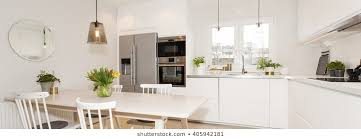
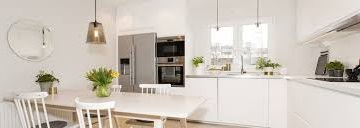
added a few things

diff --git a/about.html b/about.html
@@ -22,16 +22,15 @@
 
     <link href="https://fonts.googleapis.com/css?family=Playfair+Display&display=swap" rel="stylesheet">
     <link href="https://fonts.googleapis.com/css?family=Montserrat|Playfair+Display&display=swap" rel="stylesheet">
-    <link href="https://cdnjs.cloudflare.com/ajax/libs/jquery.caroufredsel/6.1.0/jquery.carouFredSel.packed.js">
 
+<meta name="viewport" content="width=device-width, initial-scale=1">
 
+<link rel="stylesheet" href="https://cdnjs.cloudflare.com/ajax/libs/animate.css/3.7.2/animate.min.css">
 
 </head>
-
-
 <body>
-	
-<nav class="navbar navbar-expand-lg navbar-light bg-white">
+
+	<nav class="navbar navbar-expand-lg navbar-light bg-white">
   <a class="navbar-brand" href="home.html"></a>
   <button class="navbar-toggler" type="button" data-toggle="collapse" data-target="#navbarTogglerDemo02" aria-controls="navbarTogglerDemo02" aria-expanded="false" aria-label="Toggle navigation">
     <span class="navbar-toggler-icon"></span>
@@ -56,26 +55,27 @@
 </nav>
 
 
-<header><img src="pictures/img-07.jpg" width="100%" /></header><br/>
+<header><img src="pictures/img-06.jpg" width="100%" /></header><br/>
 <div class="logo"><img class="logo"src="pictures/logo2.jpg" width="40%" />	</div><br/><br/>
 
-
-
-
-
-
-
-<div class="row">
-  <div class="col-sm-7"><h2>Welcome!</h2>
-
-    	<p>hdchjcdhwcdcgwkdc ipsum dolor sit amet, consectetur adipisicing elit, sed do eiusmod
+<h3 class="about">About us </h3><br/>
+<div class="container">
+<div class="col align-self-center" id="about-us">
+    <p class="about-">ipsum dolor sit amet, consectetur adipisicing elit, sed do eiusmod
 tempor incididunt ut labore et dolore magna aliqua. Ut enim ad minim veniam,
 quis nostrud exercitation ullamco laboris nisi ut aliquip ex ea commodo
 consequat. Duis aute irure dolor in reprehenderit in voluptate velit esse
 cillum dolore eu fugiat nulla pariatur. Excepteur sint occaecat cupidatat non
 proident, sunt in culpa qui officia deserunt mollit anim id est laborum.</p>
 
-<p>hdchjcdhwcdcgwkdc ipsum dolor sit amet, consectetur adipisicing elit, sed do eiusmod
+<p class="about-">ipsum dolor sit amet, consectetur adipisicing elit, sed do eiusmod
+tempor incididunt ut labore et dolore magna aliqua. Ut enim ad minim veniam,
+quis nostrud exercitation ullamco laboris nisi ut aliquip ex ea commodo
+consequat. Duis aute irure dolor in reprehenderit in voluptate velit esse
+cillum dolore eu fugiat nulla pariatur. Excepteur sint occaecat cupidatat non
+proident, sunt in culpa qui officia deserunt mollit anim id est laborum.</p>
+
+<p class="about-">ipsum dolor sit amet, consectetur adipisicing elit, sed do eiusmod
 tempor incididunt ut labore et dolore magna aliqua. Ut enim ad minim veniam,
 quis nostrud exercitation ullamco laboris nisi ut aliquip ex ea commodo
 consequat. Duis aute irure dolor in reprehenderit in voluptate velit esse
@@ -83,54 +83,29 @@ cillum dolore eu fugiat nulla pariatur. Excepteur sint occaecat cupidatat non
 proident, sunt in culpa qui officia deserunt mollit anim id est laborum.</p>
 
 
+    </div>
 </div>
 
-  <div class="col-sm-4"> <img src="pictures/img-05.jpg" width="100%" height="100%" class="img-thumbnail"/><br/><br/>
-  <button class="btn"> view our gallery</button></div>
-  
-
-</div><br/><br/><br/>
-
-
-
-
-<div class="we-do">
-<h3>What we do ?</h3><br/>
-<div class="list-group">
-  <a href="#" class="list-group-item list-group-item-action">Designer Kitchens</a>
-  <a href="#" class="list-group-item list-group-item-action">Designer Bathrooms</a>
-  <a href="#" class="list-group-item list-group-item-action">Built in cupbords</a>
-  <a href="#" class="list-group-item list-group-item-action">And further building services</a>
- </div>
-</div>
 <br/><br/>
 
-
-
-
-
-
-<div class="projects">
-<h3> Our latest projects </h3>
-
-<div class="container">
-  <div class="row">
-    <div class="col-sm">
-     <img src="pictures/img-02.jpg" class="img-thumbnail"/>
-    </div>
-    <div class="col-sm">
-     <img src="pictures/img-03.jpg" class="img-thumbnail"/>
-    </div>
-    <div class="col-sm">
-     <img src="pictures/img-04.jpg" class="img-thumbnail"/>
-    </div>
+<div class="slideshow-container">
+  <div class="mySlides1">
+    <img src="pictures/men.jpg" style="width:100%">
   </div>
+
+  <div class="mySlides1">
+    <img src="pictures/men2.jpg" style="width:100%">
+  </div>
+
+  <div class="mySlides1">
+    <img src="pictures/men3.jpg" style="width:100%">
+  </div>
+
+  <a class="prev" onclick="plusSlides(-1, 0)">&#10094;</a>
+  <a class="next" onclick="plusSlides(1, 0)">&#10095;</a>
 </div>
-</div>
 
-
-
-
+<br/><br/>
 
 
 <hr>
@@ -150,9 +125,10 @@ Cape Town, Western Cape</p><p> 7785</p><p>South Africa</p></div>
 </div>
 <hr>
 
-
 <footer>
 	 <p>2020 Design & Development by Cassidy Theunissen</p><br/>
 </footer>
+<script type="text/javascript" src="more.js"></script>
+
 </body>
 </html>

diff --git a/contact.html b/contact.html
@@ -43,7 +43,7 @@
         <a class="nav-link" href="about.html">About Us</a>
       </li>
       <li class="nav-item">
-        <a class="nav-link" href="general.html">Services</a>
+        <a class="nav-link" href="services.html">Services</a>
       </li>
       <li class="nav-item">
         <a class="nav-link" href="contact.html">Contact Us </a>
@@ -63,36 +63,26 @@
 
 
 
-<div class="row2">
-  <div class="col-sm-5"><h4>Trading hours</h4>
-  	<br/><p>Mon-Thur: 9:00am - 5pm | Fri: 9:00am - 3pm </p><p>Closed weekend & public holidays</p>
+<hr>
+<div class="container">
+  <div class="row vdivide">
+    <div class="col-sm-4 text-center"><h4>Physical Address</h4><br/><p> Corner Main and HaRN Avenue</p><p>
+Cape Town, Western Cape</p><p> 7785</p><p>South Africa</p></div>
+    <div class="col-sm-4 text-center"><h4>General Information</h4><br/><p>Nouveau Kitchens<p/><p>Tel: 021 371 2447</p>E-mail: HighSec@gmail.com</div>
+    <div class="col-sm-4 text-center"><h4>Find Us On</h4>
+    <div class="icons"><br/>
 
+              <a href="#" target="_blank"><i class="fa fa-facebook fa-3x" id="icon"></i></a> &nbsp;
+               <a href="" target="_blank"><i class="fa fa-instagram fa-3x" id="icon"></i></a>
 </div>
+</div>
+</div>
+</div>
+<hr>
 
-  <div class="col-sm-4"><h4>Follow us on</h4><br/>
-  <form>
-  <div class="form-row">
-    <div class="form-group col-md-6">
-      <label for="Name">Name</label>
-      <input type="email" class="form-control" id="inputEmail4" placeholder="Email">
-    </div>
-    <div class="form-group col-md-6">
-      <label for="Surname">Surname</label>
-      <input type="password" class="form-control" id="inputPassword4" placeholder="Password">
-    </div>
-  </div>
-  <div class="form-group">
-    <label for="Email">Email</label>
-    <input type="text" class="form-control" id="inputAddress" placeholder="123@gmail.com">
-  </div>
-  <div class="form-group">
-    <label for="Message">Message for us</label>
-    <input type="text" class="form-control" id="inputAddress2" placeholder="Apartment, studio, or floor">
-  </div>
-  </form></div></div></div>
-
-
-
+<footer>
+   <p>2020 Design & Development by Cassidy Theunissen</p><br/>
+</footer>
 
 
 

diff --git a/style.css b/style.css
@@ -81,7 +81,65 @@ h4{
   text-align: center;
  
 }
+.about{
+  text-align: center;
+}
+.about-us{
+  justify-content: center;
+}
+.about-{
+  widows: 50%;
+}
+
 
 footer{
   text-align: center;
+}
+.slideshow-container{
+  width: 45%;
+  
+}
+
+* {box-sizing: border-box}
+.mySlides1, .mySlides2 {display: none}
+img {vertical-align: middle;}
+
+/* Slideshow container */
+.slideshow-container {
+  max-width: 1000px;
+  position: relative;
+  margin: auto;
+}
+
+/* Next & previous buttons */
+.prev, .next {
+  cursor: pointer;
+  position: absolute;
+  top: 50%;
+  width: auto;
+  padding: 16px;
+  margin-top: -22px;
+  color: white;
+  font-weight: bold;
+  font-size: 18px;
+  transition: 0.6s ease;
+  border-radius: 0 3px 3px 0;
+  user-select: none;
+}
+
+/* Position the "next button" to the right */
+.next {
+  right: 0;
+  border-radius: 3px 0 0 3px;
+}
+
+/* On hover, add a grey background color */
+.prev:hover, .next:hover {
+  background-color: #f1f1f1;
+  color: black;
+}
+.yourElement {
+  animation-duration: 3s;
+  animation-delay: 2s;
+  animation-iteration-count: infinite;
 }

diff --git a/more.js b/more.js
@@ -1,0 +1,20 @@
+
+var slideIndex = [1,1];
+var slideId = ["mySlides1", "mySlides2"]
+showSlides(1, 0);
+showSlides(1, 1);
+
+function plusSlides(n, no) {
+  showSlides(slideIndex[no] += n, no);
+}
+
+function showSlides(n, no) {
+  var i;
+  var x = document.getElementsByClassName(slideId[no]);
+  if (n > x.length) {slideIndex[no] = 1}    
+  if (n < 1) {slideIndex[no] = x.length}
+  for (i = 0; i < x.length; i++) {
+     x[i].style.display = "none";  
+  }
+  x[slideIndex[no]-1].style.display = "block";  
+}
